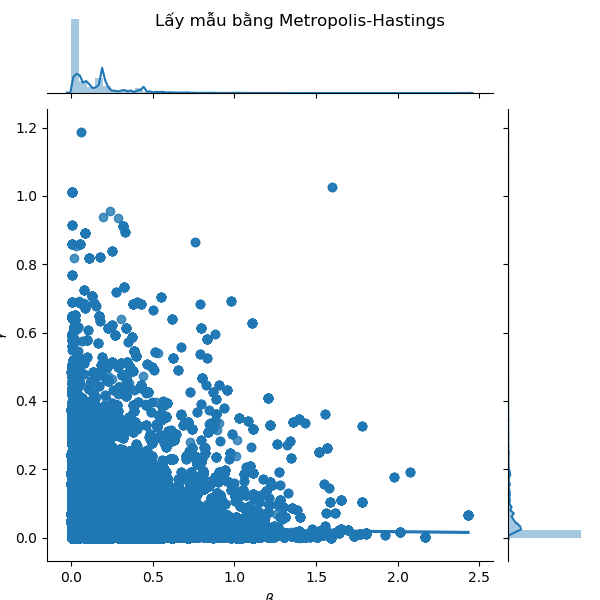
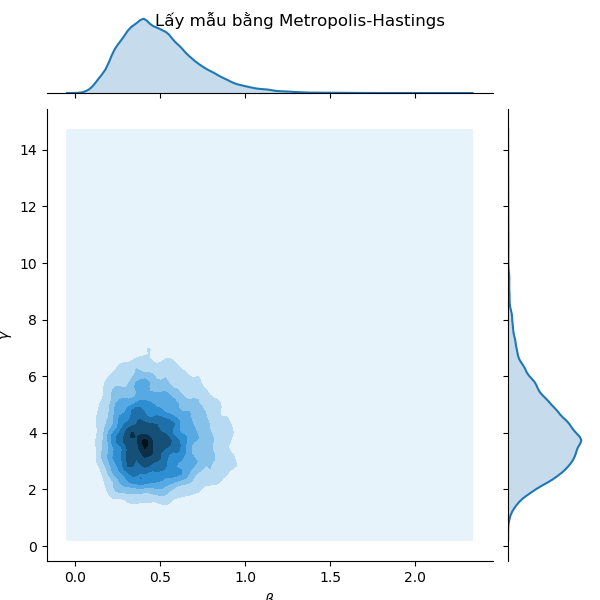
MODIFIED: a bit tempering

diff --git a/sampling.py b/sampling.py
@@ -3,72 +3,87 @@ import scipy.stats as st  # ver 1.5.1
 import seaborn as sns  # ver 0.10.1
 from matplotlib import pyplot as plt  # ver 3.2.2
 from gamma_dist import f_beta_gamma
-
-def pgauss(x, y):
-    # N(0,1)
-    return st.multivariate_normal.pdf([x, y], mean=np.array([0, 0]))
+import sys
 
 
-def metropolis_hastings(p, nIter, scale=[1, 1]):
+def metropolis_hastings(x, f, nIter):
     """
-    Use Metropolis-Hastings algorithm to draw samples from probability distribution p
+    Metropolis algorithm to draw samples with known probability distribution
 
     Parameters
     ----------
-    p:     string
-        The desired probability distribution (we have 'pgauss' and 'f_beta_gama' distribution).
-    iter:  int
-        Size of sample set.
-    scale: 2D-array
-        "width" of the distribution.
+    x:        ndarry with size n
+        Initial state
+    f:        callable
+        Function proportional to the desired probability distribution
+    nIter:    int
+        Size of sample set
 
     Returns
     ------
-    out: ndarray
-         Samples stastify p distribution
+    out:      ndarray with size is nIter x n
+         Samples with desired probability distribution
     """
-    # The starting point of our Markov chain is the estimated value of (α, β) from Raggett (1982)?????
-    beta, gamma = 0.27 / 2.47, 0.19 / 7.58
-    samples = np.zeros((nIter, 2))
-    centre = [beta, gamma]
-    for idx in range(samples.shape[0]):
-        beta_star, gamma_star = np.random.multivariate_normal(mean=centre, cov=np.diag(scale))
+    
+    # Draw samples
+    samples = np.zeros((nIter, x.shape[0]))
+    for idx in range(nIter):
+        # Generate a candidate
+        x_star = np.random.multivariate_normal(mean=x, cov=np.diag([1] * x.shape[0]))
         
-        r = p(beta_star, gamma_star) * st.multivariate_normal.pdf([beta, gamma], mean=[beta_star, gamma_star], cov=np.diag(scale)) \
-            / p(beta, gamma) / st.multivariate_normal.pdf([beta_star, gamma_star], mean=centre, cov=np.diag(scale))
+        # Accept ratio
+        r = f(x_star) / f(x)
         
+        # Accept new state
         if np.random.uniform(0.0, 1.0) < r:
-            beta, gamma = beta_star, gamma_star        # accept beta_star,gamma_star
-        #     # uncomment this to plot accepted and injected points
-        #     plt.plot(beta_star,gamma_star,'b.')
-        # else: plt.plot(beta_star,gamma_star,'r.')
+            x = x_star
 
-        # inject beta_star,gamma_star
-        samples[idx] = np.array([beta, gamma])
+        # "Append" new state
+        samples[idx] = np.array(x)
 
-    print('Accept Rate = {0}%'.format(
-        len(np.unique(samples, axis=0)) / nIter*100))
-    # print(np.unique(samples,axis = 0))
     return samples
 
 
 if __name__ == "__main__":
-    samples = metropolis_hastings(f_beta_gamma, 1000000)
-    h = sns.jointplot(samples[:, 0], samples[:, 1], kind='reg')  # 'kde')
-    h.set_axis_labels(r'$\beta$', r'$\gamma$')
-    plt.suptitle('Lấy mẫu bằng Metropolis-Hastings')
-    plt.savefig('sampling.png')
+    from gamma_dist import gamma_dist_var
     
-    #test
-    print('='*60)
-    print('beta')
-    print('exact  : {0} \t {1}'.format(0.27/2.47,0.27/2.47**2))
-    print('samples:', np.mean(samples[:,0]), '\t', np.var(samples[:,0]))
-    # print('='*60)
-
-    print('gamma')
-    print('exact  : {0} \t {1}'.format(0.19/7.58,0.19/7.58**2))
-    print('samples:', np.mean(samples[:,1]), '\t', np.var(samples[:,1]))
-    print('='*60)
-
-    plt.show()
+    if len(sys.argv) > 4:
+        # Interpret input
+        lambda_beta, v_beta, lambda_gamma, v_gamma = map(float, sys.argv[1:])
+        
+        # f is proportional to pi(beta, gamma)
+        f = lambda x: gamma_dist_var(x[0], lambda_beta, v_beta) \
+            * gamma_dist_var(x[1], lambda_gamma, v_gamma)
+        
+        # Draw samples
+        samples = metropolis_hastings(np.array([lambda_beta / v_beta, lambda_gamma / v_gamma]), f, 100000)
+        beta_samples = samples[:, 0]
+        gamma_samples = samples[:, 1]
+        
+        # Plot
+        h = sns.jointplot(samples[:, 0], samples[:, 1], kind='kde')
+        h.set_axis_labels(r'$\beta$', r'$\gamma$')
+        plt.suptitle('Lấy mẫu bằng Metropolis-Hastings')
+        
+        # Output capture
+        plt.savefig('sampling.png')
+        
+        # Compare means and variance
+        print('=' * 73)
+        
+        print('beta')
+        print('actual : mean: {:.4f}\t variance: {:.4f}'\
+              .format(lambda_beta / v_beta, lambda_beta / v_beta**2))
+        print('samples: mean: {:.4f}\t variance: {:.4f}'\
+              .format(np.mean(beta_samples), np.var(beta_samples)))
+    
+        print('gamma')
+        print('actual : mean: {:.4f}\t variance: {:.4f}'\
+              .format(lambda_gamma / v_gamma, lambda_gamma / v_gamma**2))
+        print('samples: mean: {:.4f}\t variance: {:.4f}'\
+              .format(np.mean(gamma_samples), np.var(gamma_samples)))
+        
+        print('=' * 73)
+    
+        # Show plot
+        plt.show()

diff --git a/test.py b/test.py
@@ -4,6 +4,11 @@ import math
 import scipy.special as sps
 import random
 from regionize_data import regionize 
+# import numpy as np  # ver 1.19.0
+# import scipy.stats as st  # ver 1.5.1
+import seaborn as sns  # ver 0.10.1
+# from matplotlib import pyplot as plt  # ver 3.2.2
+# from gamma_dist import gamma_dist_var
 
 if __name__ == "__main__":
     S, I, R = regionize()
@@ -41,28 +46,35 @@ if __name__ == "__main__":
     #plt.show()
 
     beta_prime = np.array([(I[i] - I[i - 1] + gamma[i - 1] * I[i - 1]) * N \
-                 / (I[i - 1] * S[i - 1]) for i in range(1, n)])
+                  / (I[i - 1] * S[i - 1]) for i in range(1, n)])
     beta_error = beta_prime - beta 
     #print(beta_error)
     gamma_prime = np.array([(1 + beta[i - 1] * S[i - 1] / N - I[i] / I[i - 1]) for i in range(1, n)])
     gamma_error = gamma_prime - gamma 
     #print(gamma_error)
 
-    s = random.choices(list(beta), k = 1000000)
-    #print(s)
-    tmp1 = np.mean(s)
-    tmp2 = np.var(s)
+    beta = random.choices(list(beta), k = 1000000)
+    #print(beta)
+    tmp1 = np.mean(beta)
+    tmp2 = np.var(beta)
     scale = tmp2 / tmp1 
     shape = tmp1 / scale
     print(shape, 1 / scale)
     
-    s = random.choices(list(gamma), k = 1000000)
+    gamma = random.choices(list(gamma), k = 1000000)
     #print(s)
-    tmp1 = np.mean(s)
-    tmp2 = np.var(s)
+    tmp1 = np.mean(gamma)
+    tmp2 = np.var(gamma)
     scale = tmp2 / tmp1 
     shape = tmp1 / scale
     print(shape, 1 / scale)
+    
+    h = sns.jointplot(beta, gamma, kind='reg')  # 'kde')
+    h.set_axis_labels(r'$\beta$', r'$\gamma$')
+    plt.suptitle('Lấy mẫu bằng Metropolis-Hastings')
+    plt.savefig('sampling.png')
+    plt.show()
+    
     # count, bins, ignored = plt.hist(s, 50, density=True)
     # print(bins)
     #lny = (shape - 1) * np.log(bins) - bins / scale - np.log(sps.gamma(shape)*scale**shape)
@@ -98,3 +110,47 @@ if __name__ == "__main__":
     plt.plot(bins, y, linewidth=2, color='r')
     plt.show()
     '''
+    
+# import numpy as np  # ver 1.19.0
+# import scipy.stats as st  # ver 1.5.1
+# import seaborn as sns  # ver 0.10.1
+# from matplotlib import pyplot as plt  # ver 3.2.2
+# from gamma_dist import gamma_dist_var
+
+# def pgauss(x, y):
+#     # N(0,1)
+#     return st.multivariate_normal.pdf([x, y], mean=np.array([0, 0]))
+
+
+# def metropolis_hastings(p, nIter):
+#     x = 10
+#     samples = np.zeros(nIter)
+#     for idx in range(samples.shape[0]):
+#         x_star = np.random.normal(loc=x)
+        
+#         r = p(x_star) * st.norm.pdf(x, loc=x_star) \
+#             / p(x) / st.norm.pdf(x_star, loc=x)
+        
+#         if np.random.uniform(0.0, 1.0) < r:
+#             x = x_star
+            
+#         samples[idx] = np.array(x)
+
+#     return samples
+
+
+# if __name__ == "__main__":
+#     f = lambda x: gamma_dist_var(x, 0.27/2.47, 0.19/7.58)
+#     samples = metropolis_hastings(f, 100000)
+    
+#     h = sns.jointplot(samples, samples, kind='reg')  # 'kde')
+#     h.set_axis_labels(r'$\beta$', r'$\gamma$')
+#     plt.suptitle('Lấy mẫu bằng Metropolis-Hastings')
+#     plt.savefig('sampling.png')
+    
+#     #test
+#     print('='*60)
+#     print('x')
+#     print('samples:', np.mean(samples), '\t', np.var(samples))
+    
+#     plt.show()

diff --git a/R0_estimating.py b/R0_estimating.py
@@ -12,19 +12,24 @@ from gamma_dist import gamma_dist, f_beta_gamma
 
 
 s, i, r = regionize()
-x = [i + j for i, j in zip(i, r) if i + j != 0]
+x = [0] + [i + j for i, j in zip(i, r) if i + j != 0]
+x = [x[i] - x[i - 1] for i in range(1, len(x)) if x[i] != x[i - 1]]
 
-samples = metropolis_hastings(f_beta_gamma, 10000, scale = [0.25,0.01])
+print(x)
+
+samples = metropolis_hastings(f_beta_gamma, 10000)
 beta = samples[:, 0]
 gamma = samples[:, 1]
 
-print(sum(beta) / len(beta))
-print(sum(gamma) / len(gamma))
-E_R0 = 0
+numerator = 0
+denominator = 0
 for b, c in zip(beta, gamma):
     pi = 1.
     for val in x:
         pi *= gamma_dist(val, b, c)
-    E_R0 += pi * b / c
+    print(b/c)
+    numerator += pi * b / c
+    denominator += pi
 
-print(E_R0)
+E_R0 = numerator / denominator
+print(numerator, denominator)

diff --git a/gamma_dist.py b/gamma_dist.py
@@ -3,7 +3,7 @@ import math
 
 
 def gamma_dist_var(x, alpha, beta):
-    return math.exp((alpha - 1) * math.log(x) - beta * x)
+    return math.exp((alpha - 1) * math.log(x) - beta * x) if x > 0 else 0
 
 
 def gamma_dist(x, alpha, beta):
@@ -17,11 +17,8 @@ def f_beta_gamma(beta,
                   v_beta=2.47,
                   lambda_gamma=0.19,
                   v_gamma=7.58):
-    if beta > 0 and gamma > 0:
-        return gamma_dist_var(beta, lambda_beta, v_beta) \
+    return gamma_dist_var(beta, lambda_beta, v_beta) \
             * gamma_dist_var(gamma, lambda_gamma, v_gamma)
-    else:
-        return 0
 
 
 def pi_beta_gamma(beta,

diff --git a/regionize_data.py b/regionize_data.py
@@ -170,9 +170,14 @@ def regionize(region="Europe"):
         
 
 if __name__ == '__main__':
-    if len(sys.argv) > 1:
-        for df in regionize(sys.argv[1]):
-            print(df)
-    else:
-        for df in regionize(None):
-            print(df)
+    # if len(sys.argv) > 1:
+    #     for df in regionize(sys.argv[1]):
+    #         print(df)
+    # else:
+    #     for df in regionize(None):
+    #         print(df)
+    
+    import plot
+    
+    s, i, r = regionize()
+    plot.plot_data(s, i, r)
